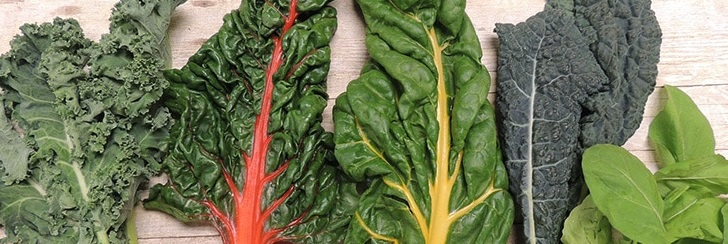
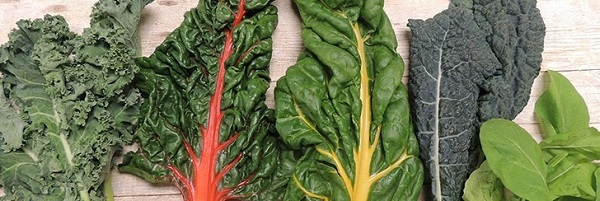
adjust picture size;

diff --git a/README.md b/README.md
@@ -1,5 +1,5 @@
 KaleNetwork.org
 ========
 
-Website for the [Kale](https://www.kalenetwork.org/) cryptocurrency. Test.
+Website for the [Kale](https://www.kalenetwork.org/) cryptocurrency. 
 
